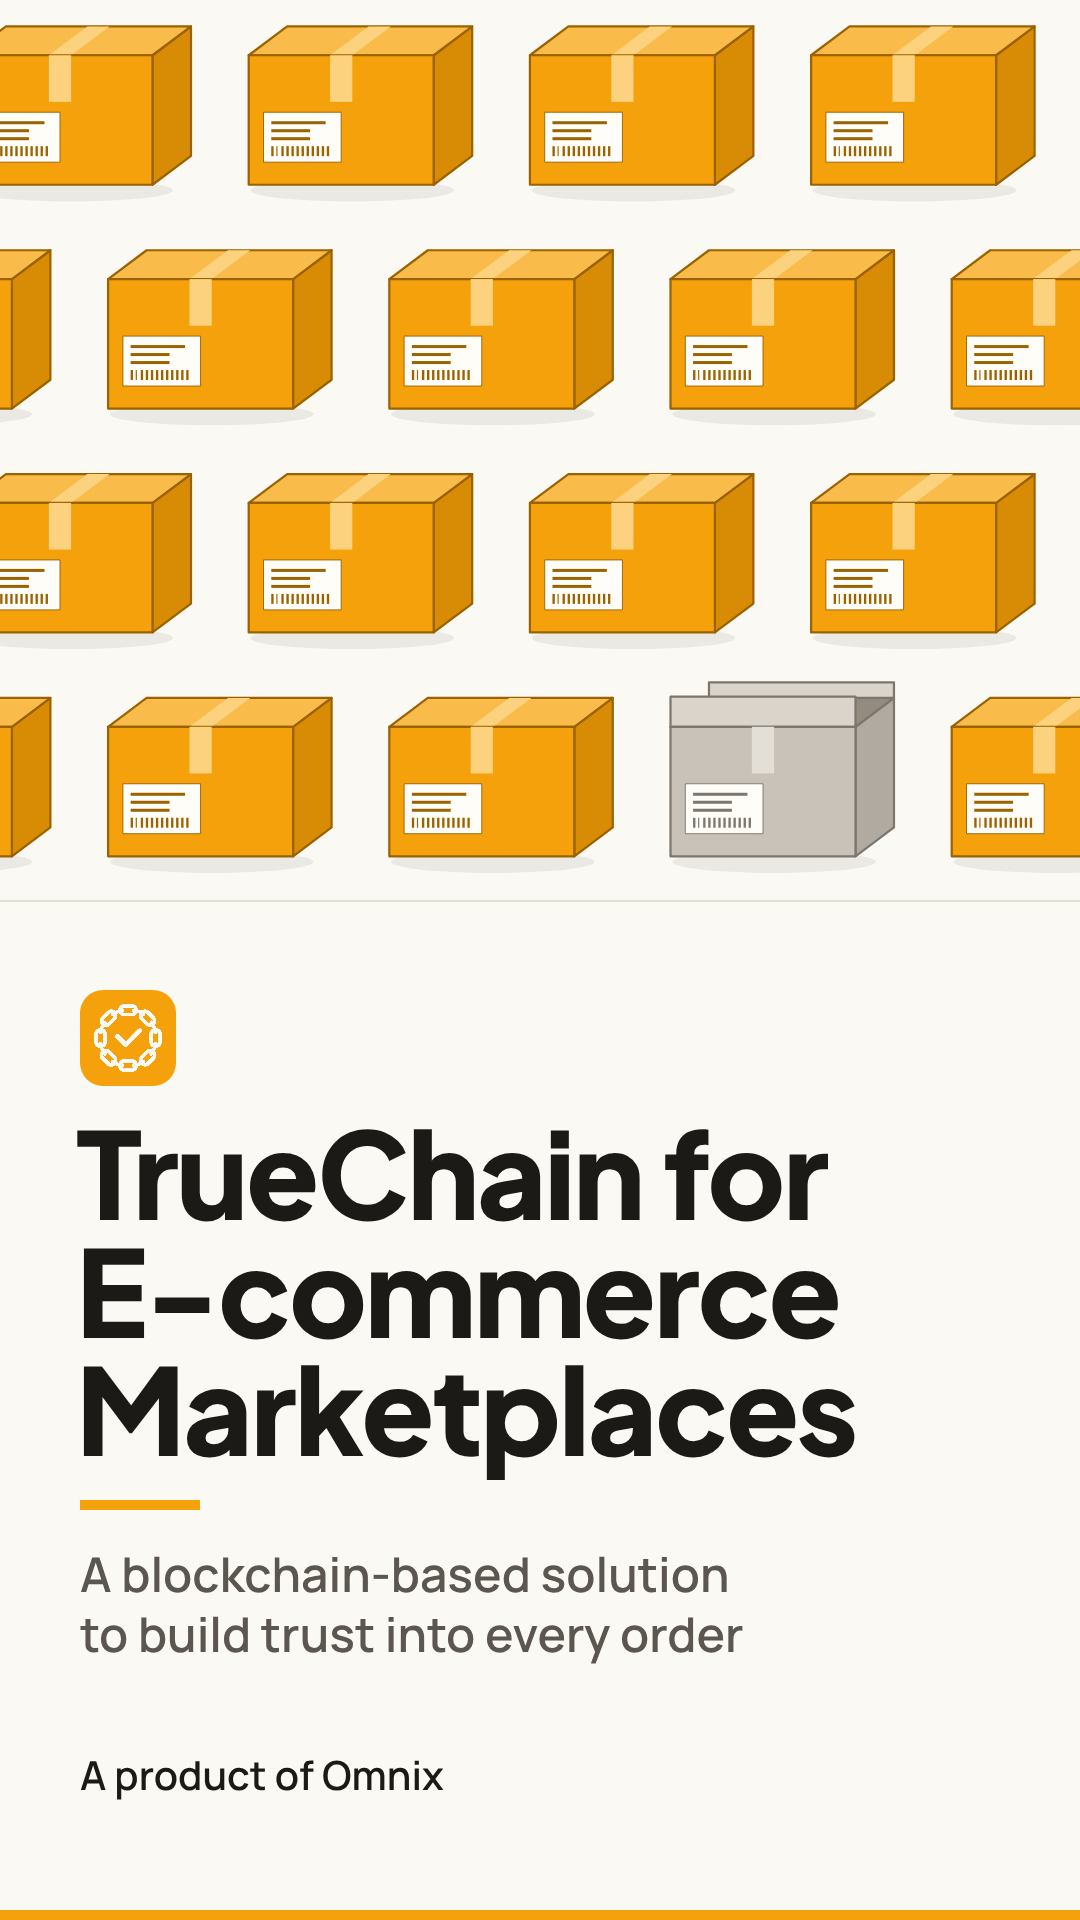
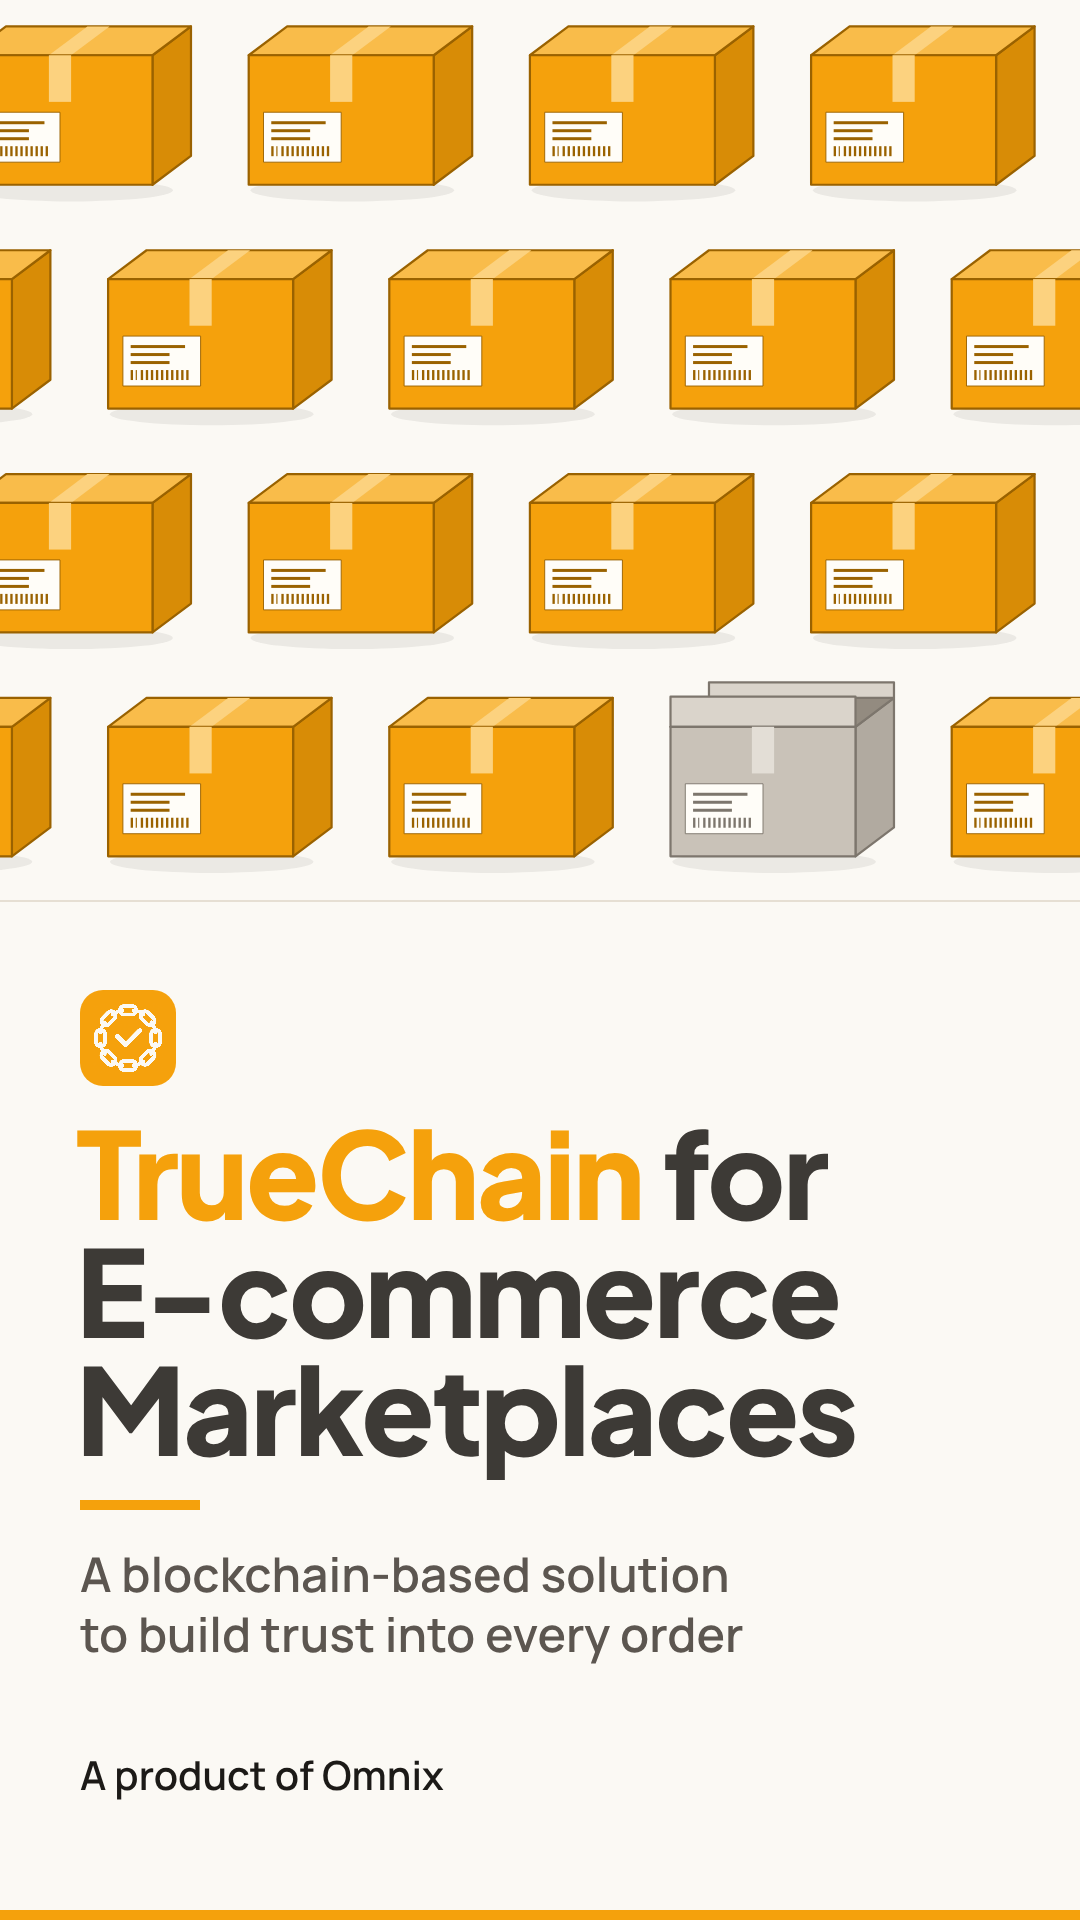
TrueChain thumbnails: orange wordmark, dark grey title
Claude-Session: https://claude.ai/code/session_01Vm8DDK1CeFkvoLe57T6SMJ

Changed region(s): [[0.0611, 0.5625, 0.7944, 0.7812]]

diff --git a/media/truechain_briefing/comp/thumbs2.js b/media/truechain_briefing/comp/thumbs2.js
@@ -8,6 +8,12 @@ function grid(HW, x0, y0, rows, cols, grey) {
     parcel(px, py, HW, g ? PAL.grey : PAL.amber, { open: g ? 0.55 : 0 });
   }
 }
+// title: 'TrueChain' in brand orange, the rest in dark grey
+function title(X, Y, size, lh) {
+  const g = '#3D3A36', w = tw('TrueChain', size, 800, 'H');
+  T('TrueChain', X, Y, { size, fam: 'H', color: K.amber }); T(' for', X + w, Y, { size, fam: 'H', color: g });
+  T('E-commerce', X, Y + lh, { size, fam: 'H', color: g }); T('Marketplaces', X, Y + 2 * lh, { size, fam: 'H', color: g });
+}
 function lockup(X, Y, s, size) { logoSquare(X, Y, s); T('TrueChain', X + s + s * 0.28, Y + s / 2 + size * 0.36, { size, fam: 'H' }); }
 window.COMP = { dur: 1, draw() {
   x.fillStyle = K.bg; x.fillRect(0, 0, W, H);
@@ -15,7 +21,7 @@ window.COMP = { dur: 1, draw() {
     save(() => { x.beginPath(); x.rect(980, 0, W - 980, H); x.clip(); grid(170, 900, 110, 5, 7, [2, 2]); });
     x.fillStyle = K.hair; x.fillRect(980, 0, 2, H);
     logoSquare(M, 110, 96);
-    ['TrueChain for', 'E-commerce', 'Marketplaces'].forEach((l, i) => T(l, M - 6, 380 + i * 124, { size: 124, fam: 'H' }));
+    title(M - 6, 380, 124, 124);
     x.fillStyle = K.amber; x.fillRect(M, 665, 120, 10);
     ['A blockchain-based solution to', 'build trust into every order'].forEach((l, i) => T(l, M, 790 + i * 62, { size: 50, w: 600, color: K.ink2 }));
     T('A product of Omnix', M, 990, { size: 40, w: 600, color: K.ink });
@@ -23,7 +29,7 @@ window.COMP = { dur: 1, draw() {
     save(() => { x.beginPath(); x.rect(0, 0, W, 900); x.clip(); grid(185, 60, 120, 5, 6, [3, 2]); });
     x.fillStyle = K.hair; x.fillRect(0, 900, W, 2);
     logoSquare(M, 990, 96);
-    ['TrueChain for', 'E-commerce', 'Marketplaces'].forEach((l, i) => T(l, M - 4, 1220 + i * 118, { size: 120, fam: 'H' }));
+    title(M - 4, 1220, 120, 118);
     x.fillStyle = K.amber; x.fillRect(M, 1500, 120, 10);
     ['A blockchain-based solution', 'to build trust into every order'].forEach((l, i) => T(l, M, 1592 + i * 60, { size: 48, w: 600, color: K.ink2 }));
     T('A product of Omnix', M, 1790, { size: 40, w: 600, color: K.ink });
